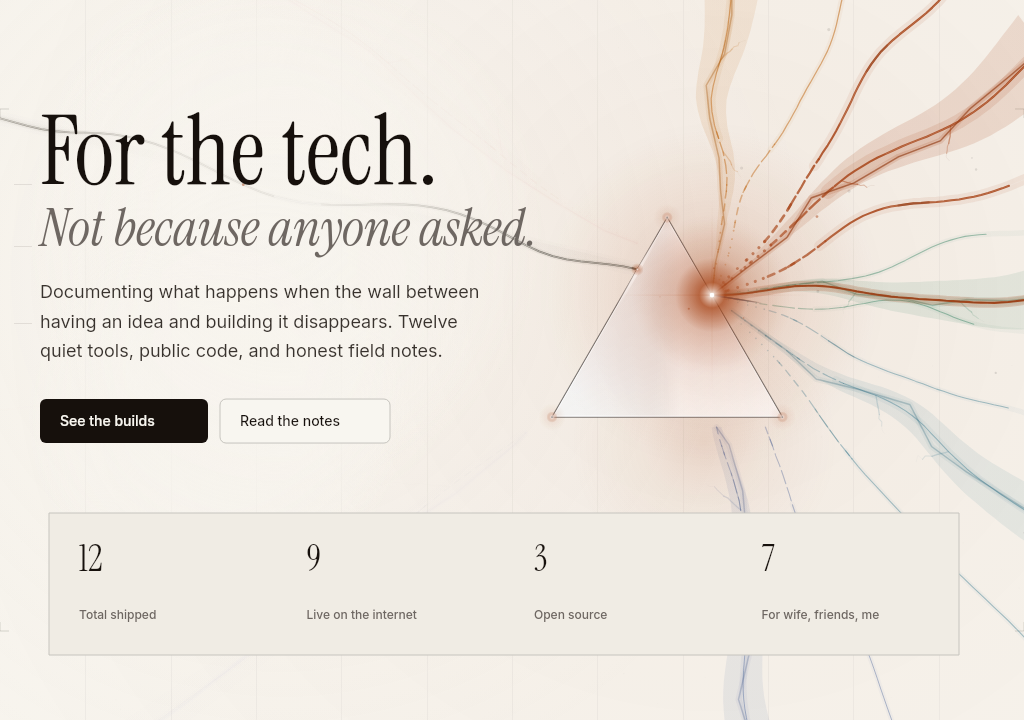
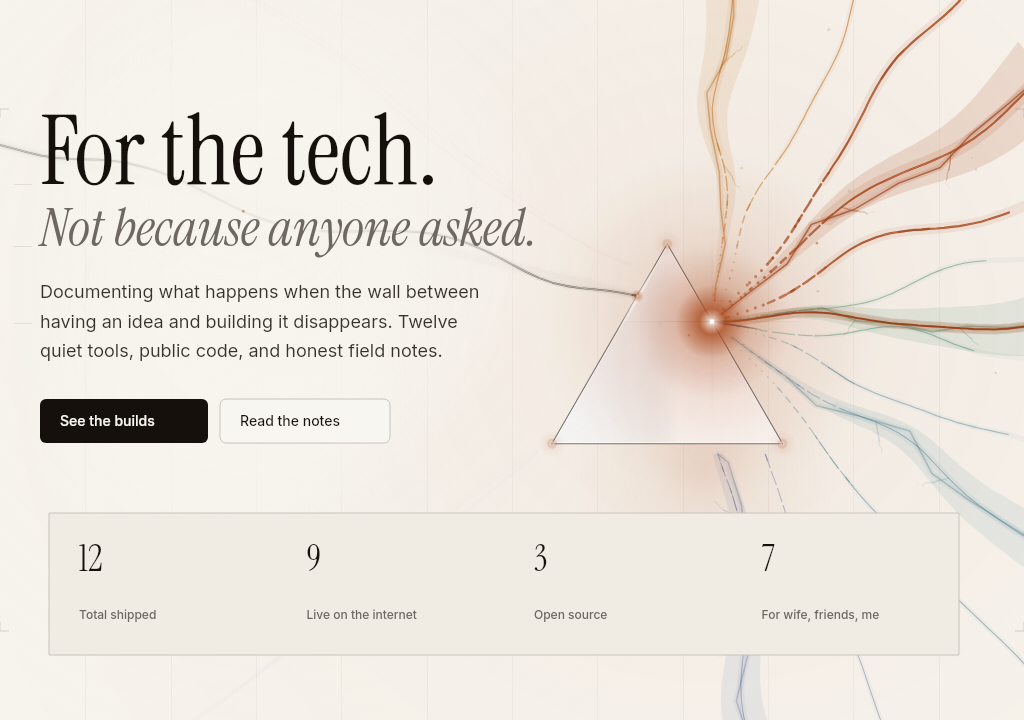
hero: solve the beam's landing so it threads the type
The run was landing 30px too high: from the frame edge it crossed the
last word of the closing sentence ("asked.") on its way to the facet.
The landing is now solved against the two boxes it has to pass between
— below the italic at its right edge, above the lede at its right edge
— and the glass hangs off that: centre y 359 -> 388 at 1440, and the
light enters at (0,119) instead of (0,90).

The window is only ~14px tall at 1440, which is why it is measured
rather than nudged; when a layout closes it, passing under the light
line wins over crossing the paragraph. thesisLine now carries the line
box bottom, the solve runs two passes (landing sets the glass, glass
sets the facet contact), and the QA layouts/invariants were updated.

diff --git a/src/components/sections/hero-ray.ts b/src/components/sections/hero-ray.ts
@@ -850,6 +850,12 @@ export function createHeroRay(options: HeroRayOptions = {}) {
      * the lede, below the italic line — so the beam crosses the display type and never has to
      * run through a paragraph to reach the glass. Portrait has no such gap (the copy is full
      * width), so the glass hangs in the top-right corner instead and the beam rises to it.
+     *
+     * On wide screens the height is *solved* against the two type boxes the run has to pass
+     * between (see `thread` below) rather than taken from the sentence's baseline: a beam that
+     * lands 30 px too high slices the last word of the italic line, and one that lands 50 px too
+     * low runs through the first line of the paragraph. The window between those two failures is
+     * only about 15 px tall, which is why it is measured and not tuned.
      */
     let centre: Vec;
     if (mobile) {
@@ -875,37 +881,81 @@ export function createHeroRay(options: HeroRayOptions = {}) {
         y: r + Math.max(7, heroH * 0.014),
       };
     } else {
-      const landingY = clamp(thesisLine.baselineY + prismSize * 0.1, heroH * 0.28, heroH * 0.44);
-      const centreY = landingY - entryRelY;
-      // Whatever copy shares the glass's vertical band has to stay clear of the body: the
-      // clearance is derived from the rects that actually overlap that band, not from the
-      // widest text on the page (the CTA row is far below the glass and must not push it).
-      const bandTop = centreY - r;
-      const bandBottom = centreY + r * 0.5;
-      const bandRight = layout.textRects.reduce(
-        (acc, rect) =>
-          rect.bottom > bandTop && rect.top < bandBottom ? Math.max(acc, rect.right) : acc,
-        layout.container.left,
-      );
       /**
-       * The glass aims at the **middle of the column**, not at a right-hand anchor: the
-       * dispersion is the section's centrepiece, so the shape that creates it has to sit on
-       * the composition's centre line rather than pinned to the frame edge. Measured against
-       * the content column rather than the viewport, which is what makes it read the same on a
-       * 1024 laptop and a 1920 monitor.
-       *
-       * Three bounds, in order of authority: the copy it shares a band with, that centre, and
-       * the frame edge. The centre is only the *aim* — on this composition the display type
-       * reaches roughly the middle of the page, so in practice the copy's clearance is what
-       * decides, and the glass settles just past the last glyph instead of somewhere out on
-       * the right shoulder. That is the intended reading: the glass is held back by the words,
-       * never by a chosen offset.
+       * Hang the glass so the beam lands at `landingY`, and report where that landing ends up
+       * on the facet. The vertical position and the facet contact are one decision: the glass is
+       * hung off the landing point, which is what keeps the beam and the body from drifting apart.
        */
-      const target = layout.container.left + (layout.container.right - layout.container.left) * 0.5;
-      const clearance = bandRight + halfW + 24;
-      const ceiling = heroW - halfW - Math.max(14, heroW * 0.02);
-      const centreX = Math.min(ceiling, Math.max(clearance, target));
-      centre = { x: centreX, y: centreY };
+      const hang = (landingY: number) => {
+        const centreY = landingY - entryRelY;
+        // Whatever copy shares the glass's vertical band has to stay clear of the body: the
+        // clearance is derived from the rects that actually overlap that band, not from the
+        // widest text on the page (the CTA row is far below the glass and must not push it).
+        const bandTop = centreY - r;
+        const bandBottom = centreY + r * 0.5;
+        const bandRight = layout.textRects.reduce(
+          (acc, rect) =>
+            rect.bottom > bandTop && rect.top < bandBottom ? Math.max(acc, rect.right) : acc,
+          layout.container.left,
+        );
+        /**
+         * The glass aims at the **middle of the column**, not at a right-hand anchor: the
+         * dispersion is the section's centrepiece, so the shape that creates it has to sit on
+         * the composition's centre line rather than pinned to the frame edge. Measured against
+         * the content column rather than the viewport, which is what makes it read the same on a
+         * 1024 laptop and a 1920 monitor.
+         *
+         * Three bounds, in order of authority: the copy it shares a band with, that centre, and
+         * the frame edge. The centre is only the *aim* — on this composition the display type
+         * reaches roughly the middle of the page, so in practice the copy's clearance is what
+         * decides, and the glass settles just past the last glyph instead of somewhere out on
+         * the right shoulder. That is the intended reading: the glass is held back by the words,
+         * never by a chosen offset.
+         */
+        const target =
+          layout.container.left + (layout.container.right - layout.container.left) * 0.5;
+        const clearance = bandRight + halfW + 24;
+        const ceiling = heroW - halfW - Math.max(14, heroW * 0.02);
+        const centreX = Math.min(ceiling, Math.max(clearance, target));
+        return { centre: { x: centreX, y: centreY }, hitX: centreX + entryRelX };
+      };
+
+      /**
+       * The landing height that threads the type.
+       *
+       * The run is a straight line, so its height at any x is fixed by the landing:
+       *
+       *     y(x) = landingY − (hitX − x)·tan(beamAngle)
+       *
+       * Two boxes have to stay out of its way, and they pull in opposite directions:
+       *
+       *   - at the right edge of the closing sentence the run must already be **below** it,
+       *     or the beam cuts through the last word (it did: the line crossed "asked.");
+       *   - at the right edge of the paragraph it must still be **above** it, or the beam has to
+       *     be dissolved across body copy to stay readable.
+       *
+       * Solving both for `landingY` gives a window; the middle of it is the landing that gives
+       * the run the most clearance from both. If a layout ever closes the window (a short hero,
+       * a wrapped lede) the sentence wins: passing under the light type is the failure that is
+       * merely ugly, passing through a paragraph is the one that costs legibility.
+       */
+      const thread = (hitX: number) => {
+        const belowThesis = thesisLine.bottom + 10 + (hitX - thesisLine.right) * tanA;
+        const lede = layout.textRects
+          .filter((rect) => rect.top > thesisLine.baselineY)
+          .sort((a, b) => a.top - b.top)[0];
+        if (!lede) return belowThesis;
+        const aboveLede = lede.top - 12 + (hitX - lede.right) * tanA;
+        return aboveLede > belowThesis ? (belowThesis + aboveLede) / 2 : belowThesis;
+      };
+
+      // One refinement pass: the landing sets the glass, the glass sets where the landing sits
+      // on the facet, and that is what the run's clearance is measured from.
+      const provisional = hang(
+        clamp(thesisLine.baselineY + prismSize * 0.1, heroH * 0.26, heroH * 0.46),
+      );
+      const landingY = clamp(thread(provisional.hitX), heroH * 0.26, heroH * 0.46);
+      centre = hang(landingY).centre;
     }
 
     const prismCenter: Vec = centre;

diff --git a/src/components/sections/hero-layout.ts b/src/components/sections/hero-layout.ts
@@ -48,11 +48,11 @@ export type LayoutSnapshot = {
   /** right edge of the copy block (h1 ∪ ledger), hero-relative */
   copyRight: number;
   /**
-   * The closing sentence's ink extent plus its true baseline. The beam's landing height is
-   * derived from the baseline (it lands in the gap just below the display type), so this is
-   * the one piece of type the composition is anchored to.
+   * The closing sentence's ink extent, its true baseline and its line-box bottom. The beam's
+   * landing height is solved against the gap between this box and the paragraph below it, so
+   * this is the one piece of type the whole composition is anchored to.
    */
-  thesisLine: { left: number; right: number; baselineY: number };
+  thesisLine: { left: number; right: number; baselineY: number; bottom: number };
   /** the four stat tiles, left → right */
   tiles: TileRect[];
   /** the Container's content box */
@@ -167,7 +167,7 @@ function fallbackSnapshot(w: number, h: number): LayoutSnapshot {
     heroW: w,
     heroH: h,
     copyRight: right * 0.58,
-    thesisLine: { left, right: right * 0.56, baselineY: h * 0.3 },
+    thesisLine: { left, right: right * 0.56, baselineY: h * 0.3, bottom: h * 0.3 + h * 0.03 },
     tiles: [0, 1, 2, 3].map((i) => {
       const cx = lerpNumbers(left, right, (i + 0.5) / 4);
       return { x: cx - 60, top: h * 0.72, bottom: h * 0.9, cx, width: 120 };
@@ -231,6 +231,13 @@ export function measureHero(hero: HTMLElement): LayoutSnapshot {
       thesisRect,
       thesisRect.bottom - (thesisRect.bottom - thesisRect.top) * 0.24,
     ),
+    /**
+     * The bottom of the line box, not of the ink. `hero-ray` threads the incident beam through
+     * the gap between this sentence and the paragraph below, and that gap is measured from the
+     * box the browser actually laid out — a descender extent would leave the beam sitting on
+     * the baseline, which is exactly where it used to cut through the last word.
+     */
+    bottom: thesisRect.bottom,
   };
 
   const ledeEl = copyEl?.querySelector<HTMLElement>("p") ?? null;

diff --git a/design/hero-phase8/README.md b/design/hero-phase8/README.md
@@ -25,8 +25,8 @@ either. Moving one number moves the whole picture coherently.
 
 | viewport | prism centre                                      | beam source               | landing on the left facet | dispersion origin |
 | -------- | ------------------------------------------------- | ------------------------- | ------------------------- | ----------------- |
-| 1440     | (823, 359) · 57 % of the hero, 59 % of the column | left frame edge, (0, 90)  | (793, 278)                | (868, 303)        |
-| 1024     | (667, 351) · 65 %                                 | left frame edge, (0, 118) | (637, 269)                | (712, 295)        |
+| 1440     | (823, 388) · 57 % of the hero, 59 % of the column | left frame edge, (0, 119) | (793, 307)                | (868, 333)        |
+| 1024     | (667, 376) · 65 %                                 | left frame edge, (0, 145) | (637, 296)                | (712, 322)        |
 | 390      | (337, 64) · corner                                | lower left, (0, 135)      | right facet               | right facet       |
 
 ### The glass aims at the _column's middle_, not at a right-hand anchor
@@ -78,6 +78,28 @@ positions are from the original capture.
 A width sweep from 640 to 2560 px keeps all of it true: no clipped vertex, the column-relative
 position between 55 % and 88 %, an incident span above 240 px, and a source on the frame edge
 at every width.
+
+### The landing height is solved, not tuned
+
+The glass hangs off the landing point, so "where does the light come in" and "how high is the
+prism" are the same question. That height used to be `baseline + 10 % of the prism size`, which
+put the run about 30 px too high: it crossed the last word of the closing sentence ("asked.") on
+its way to the facet. Moving it down by eye has a narrow window — 50 px lower and the run is
+inside the first line of the paragraph instead — so it is solved against both boxes:
+
+```
+y(x) = landingY − (hitX − x)·tan(13°)
+
+below the italic   landingY ≥ thesis.bottom + 10 + (hitX − thesis.right)·tan13°
+above the lede     landingY ≤ lede.top      − 12 + (hitX − lede.right)·tan13°
+landingY           = the midpoint of that window
+```
+
+At 1440 the window is 300–314 px, so the run now passes cleanly between the display type and the
+body copy, and the glass sits 29 px lower (centre y 388 instead of 359). The solve is done in two
+passes because the landing sets the glass and the glass sets where the landing sits on the facet.
+If a layout ever closes the window — a wrapped lede, a short hero — the sentence wins: passing
+under light type is merely ugly, passing through a paragraph costs legibility.
 
 ### Why the beam descends from upper-left
 
